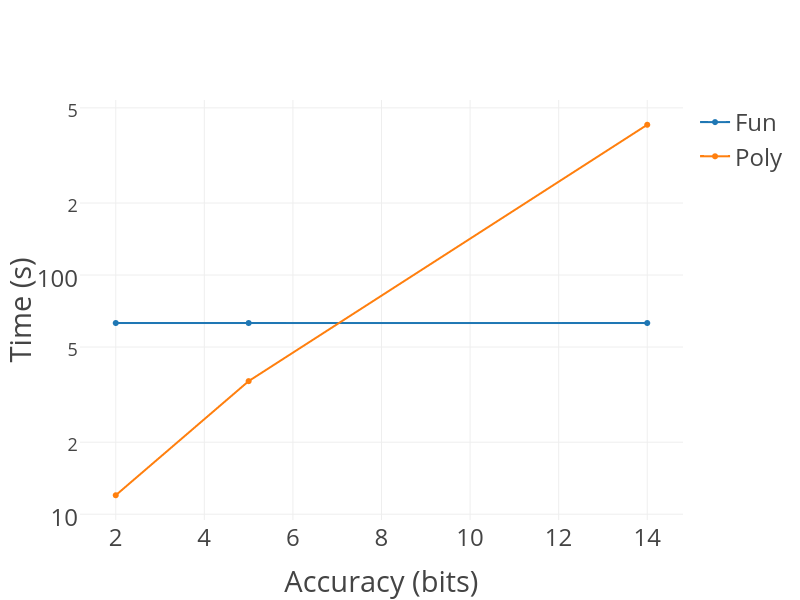
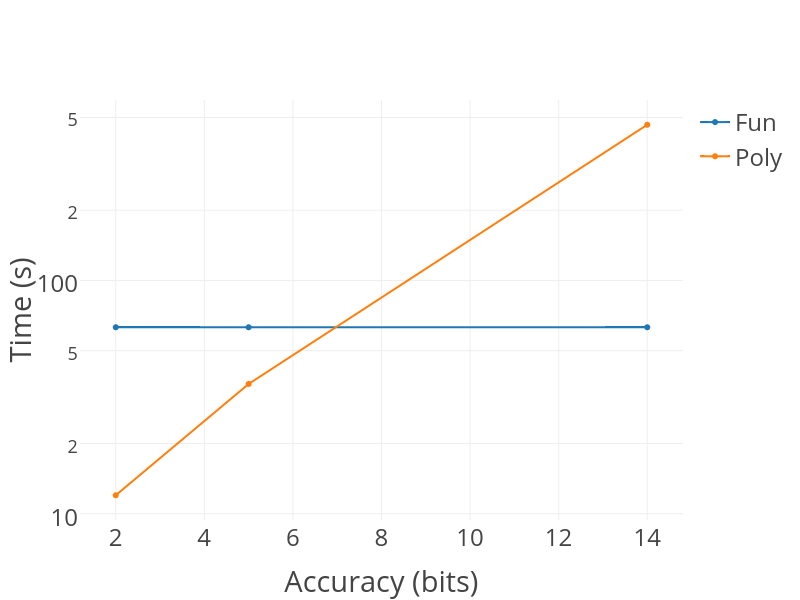
fnreps README: Correction of a slight error in one data point due to a typo.

diff --git a/aern2-fnreps/README.md b/aern2-fnreps/README.md
@@ -95,7 +95,7 @@ Each benchmark has been executed repeatedly until 3 consecutive times the result
 | Maximum  over ![unit-interval](http://latex.codecogs.com/gif.latex?[-1,1]) | Integral over ![unit-interval](http://latex.codecogs.com/gif.latex?[-1,1]) |
 | :---: | :---: |
 | <img src="plots/frac-periodic-max.png?raw=true" width="400"> | <img src="plots/frac-periodic-integrate.png?raw=true" width="400"> | 
-| _([on Plotly](https://plot.ly/~mikkonecny/32/time-s-vs-accuracy-bits/))_ | _([on Plotly](https://plot.ly/~mikkonecny/34/time-s-vs-accuracy-bits/))_ |
+| _([on Plotly](https://plot.ly/~mikkonecny/35/time-s-vs-accuracy-bits/))_ | _([on Plotly](https://plot.ly/~mikkonecny/34/time-s-vs-accuracy-bits/))_ |
 
 
 ### A very simple non-smooth function
